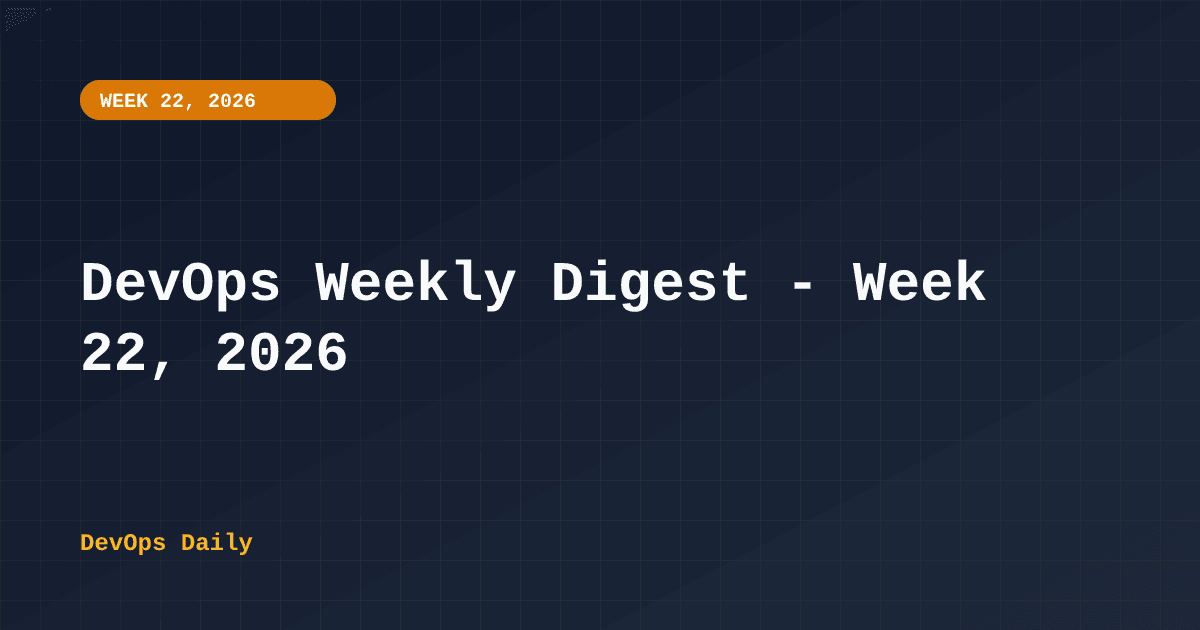
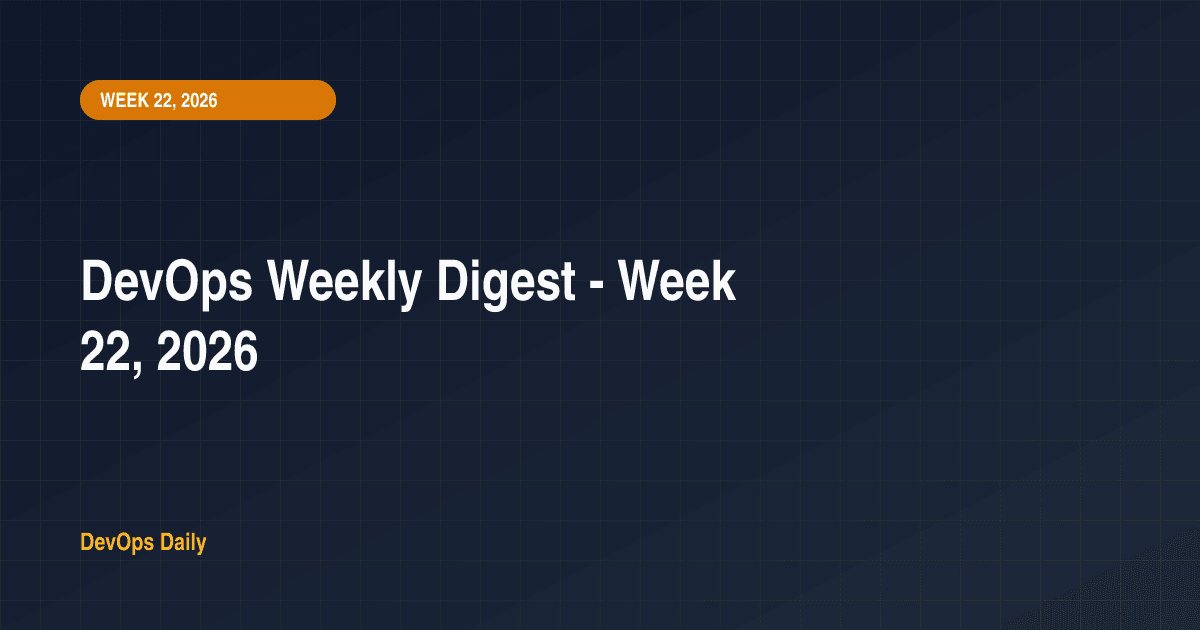
feat: add blog post - Zero-Downtime Database Migrations for PostgreSQL in Production (#1319)

Pull request: feat: add blog post - Zero-Downtime Database Migrations for PostgreSQL in Production
Blog Post on **Zero-Downtime Database Migrations for PostgreSQL in Production**.
Category: Database Operations
Tags: postgresql, database-migrations, zero-downtime

diff --git a/content/posts/zero-downtime-postgresql-migrations-production.md b/content/posts/zero-downtime-postgresql-migrations-production.md
@@ -1,0 +1,295 @@
+---
+title: 'Zero-Downtime Database Migrations for PostgreSQL in Production'
+excerpt: 'A single ALTER TABLE can take down a busy PostgreSQL database for minutes. This post shows why that happens and how to ship schema changes safely with lock timeouts, the expand-and-contract pattern, and copy-paste SQL recipes for indexes, columns, constraints, and type changes.'
+category:
+  name: 'DevOps'
+  slug: 'devops'
+date: '2026-06-01'
+publishedAt: '2026-06-01T09:00:00Z'
+updatedAt: '2026-06-01T09:00:00Z'
+readingTime: '13 min read'
+author:
+  name: 'DevOps Daily Team'
+  slug: 'devops-daily-team'
+featured: false
+tags:
+  - postgresql
+  - database-migrations
+  - zero-downtime
+  - devops
+  - sql
+---
+
+It is 2am. A deploy goes out that adds an index to the `orders` table. The migration looks harmless:
+
+```sql
+CREATE INDEX idx_orders_customer ON orders (customer_id);
+```
+
+Thirty seconds later the on-call phone goes off. The API is returning 500s. The connection pool is maxed out. Every request that touches `orders` is hanging. The database is up, CPU is fine, but nothing is moving.
+
+What happened is that `CREATE INDEX` without `CONCURRENTLY` takes a lock that blocks every write to the table for the entire build. On a 40 million row table that build takes minutes, and during those minutes every `INSERT`, `UPDATE`, and `DELETE` on `orders` waits in line. The web workers hold their database connections while they wait, the pool drains, and now even reads that have nothing to do with `orders` cannot get a connection.
+
+That is a self-inflicted outage from one line of SQL. This post is about how to never ship that line again.
+
+## TL;DR
+
+- A plain `ALTER TABLE` or `CREATE INDEX` takes a heavy lock. If it has to wait behind a slow query, it blocks every other query behind it too. One stuck statement stalls the whole table.
+- Always set `lock_timeout` (and `statement_timeout`) before schema changes so a migration fails fast instead of queueing and taking the table down.
+- Use `CREATE INDEX CONCURRENTLY` for indexes. It does not block writes.
+- Use the **expand-and-contract** pattern for anything that changes existing columns: add the new shape, backfill, switch the app, then drop the old shape in a later deploy.
+- Add constraints with `NOT VALID` first, then `VALIDATE CONSTRAINT` separately. The validation step does not block reads or writes.
+- Backfill large tables in small batches that each commit, never one giant `UPDATE`.
+
+## Prerequisites
+
+- PostgreSQL 12 or newer. Most of this works on 11, but a few shortcuts (like skipping a table scan when setting `NOT NULL`) need 12+.
+- A database you can connect to with `psql` and a role that can run DDL.
+- Some way to deploy application code separately from migrations. The expand-and-contract pattern needs at least two deploys.
+- A staging database with production-like row counts. Lock behavior that is instant on 1,000 rows is a 4-minute outage on 40 million.
+
+## Why a "simple" migration takes down production
+
+PostgreSQL uses table-level locks for schema changes. The two that bite people most:
+
+- `CREATE INDEX` (without `CONCURRENTLY`) takes a `SHARE` lock. Reads still work, but every write to the table blocks until the index finishes building.
+- Most forms of `ALTER TABLE` take an `ACCESS EXCLUSIVE` lock. That blocks everything, reads included, for as long as the statement runs.
+
+For something like adding a column, the `ACCESS EXCLUSIVE` lock is held only for a moment, because on PostgreSQL 11+ adding a column with a constant default is a metadata change. So why do people still get outages from a fast `ALTER TABLE`?
+
+The answer is the lock queue, and it is the part most people miss.
+
+When your `ALTER TABLE` asks for an `ACCESS EXCLUSIVE` lock and some long-running `SELECT` is already holding an `ACCESS SHARE` lock on the table, your `ALTER TABLE` has to wait. That is fine on its own. The problem is that while it waits, it sits at the front of the lock queue, and every new query that needs a conflicting lock now queues behind it. A plain `SELECT` needs `ACCESS SHARE`, which conflicts with the pending `ACCESS EXCLUSIVE`, so the `SELECT` waits too.
+
+So the chain is: one slow analytics query holds a read lock, your instant `ALTER TABLE` queues behind it, and then every normal query on that table queues behind your `ALTER TABLE`. The table is frozen until the slow query finishes, even though your schema change would have taken 5 milliseconds.
+
+You can watch it happen. Open a second session during a migration and run:
+
+```sql
+SELECT pid, state, wait_event_type, left(query, 60) AS query
+FROM pg_stat_activity
+WHERE wait_event_type = 'Lock'
+ORDER BY query_start;
+```
+
+```text
+  pid  |        state        | wait_event_type |                           query
+-------+---------------------+-----------------+------------------------------------------------------------
+ 18442 | active              | Lock            | ALTER TABLE orders ADD COLUMN region text
+ 18455 | active              | Lock            | SELECT * FROM orders WHERE id = $1
+ 18460 | active              | Lock            | SELECT * FROM orders WHERE id = $1
+ 18471 | active              | Lock            | UPDATE orders SET status = $1 WHERE id = $2
+```
+
+Three normal queries stuck behind one `ALTER TABLE` that is itself stuck behind something else. That is your outage.
+
+## Always set a lock timeout
+
+This is the single highest-value habit. Before any schema change, tell PostgreSQL to give up if it cannot get the lock quickly:
+
+```sql
+SET lock_timeout = '3s';
+SET statement_timeout = '0';  -- keep this off for long index builds
+
+ALTER TABLE orders ADD COLUMN region text;
+```
+
+Now if the lock is not available within 3 seconds, the migration fails instead of queueing:
+
+```text
+ERROR:  canceling statement due to lock timeout
+```
+
+A failed migration is annoying. A frozen production table is an incident. The failed migration is the outcome you want, because it means the table kept serving traffic the entire time. You retry the migration later, ideally when no long-running query is holding the table.
+
+Set this in your migration tool, not by hand. Most frameworks let you configure it. For raw SQL files, put the `SET lock_timeout` line at the top of every migration. Some teams set it in `postgresql.conf` for the migration role so it cannot be forgotten.
+
+One caveat: `lock_timeout` only covers the wait to acquire the lock. A `CREATE INDEX CONCURRENTLY` that runs for 10 minutes is not affected, because it is doing work, not waiting. That is fine. The danger is the waiting, not the working.
+
+## Build indexes concurrently
+
+Never build an index on a live table without `CONCURRENTLY`:
+
+```sql
+-- Wrong: blocks all writes for the whole build
+CREATE INDEX idx_orders_customer ON orders (customer_id);
+
+-- Right: writes keep working
+CREATE INDEX CONCURRENTLY idx_orders_customer ON orders (customer_id);
+```
+
+`CONCURRENTLY` scans the table twice and takes longer, but it does not block reads or writes. The tradeoffs you need to know:
+
+- It cannot run inside a transaction block. Many migration tools wrap every migration in a transaction by default. You have to turn that off for this migration (Rails has `disable_ddl_transaction!`, others have similar flags).
+- If it fails partway, it leaves an invalid index behind. This is the gotcha that surprises people.
+
+A common failure is building a unique index on data that turns out not to be unique:
+
+```text
+ERROR:  could not create unique index "idx_users_email"
+DETAIL:  Key (email)=([email redacted]) is duplicated.
+```
+
+The build failed, but PostgreSQL did not clean up after itself. You now have a leftover index marked invalid. Find it:
+
+```sql
+SELECT indexrelid::regclass AS index, indrelid::regclass AS table
+FROM pg_index
+WHERE NOT indisvalid;
+```
+
+```text
+        index        |  table
+---------------------+---------
+ idx_users_email     | users
+```
+
+Drop it (also concurrently, so the drop does not block writes either) and fix your data before retrying:
+
+```sql
+DROP INDEX CONCURRENTLY idx_users_email;
+```
+
+## The expand-and-contract pattern
+
+Indexes are the easy case. The hard case is changing a column that the application already reads and writes. Renaming a column, changing its type, making it `NOT NULL`, or splitting it into two columns all break the running application the instant the schema changes, because the old code still expects the old shape.
+
+The fix is to never change a column in place while code depends on it. You split the change across multiple deploys. This is the expand-and-contract pattern, sometimes called parallel change.
+
+```text
+  Deploy 1: EXPAND     Deploy 2: MIGRATE      Deploy 3: CONTRACT
+  add new shape        backfill + dual-write   drop old shape
+  (additive only)      switch reads to new     (additive removal)
+
+  old col ───────────────────────────────────────► dropped
+  new col      ◄──── added ───────► written ──────► sole source
+```
+
+The rule that makes it safe: every individual deploy is backward compatible with the code that is still running. At no point does new schema require new code or new code require new schema.
+
+Say you want to rename `users.name` to `users.full_name`. A plain `ALTER TABLE ... RENAME COLUMN` breaks every running instance of the old code that still selects `name`. Do this instead:
+
+**Deploy 1 (expand).** Add the new column. Nothing reads it yet.
+
+```sql
+SET lock_timeout = '3s';
+ALTER TABLE users ADD COLUMN full_name text;
+```
+
+Update the application to write to both columns on every insert and update. Reads still come from `name`.
+
+**Deploy 2 (migrate).** Backfill the existing rows (see the batching section below), then switch reads to `full_name`. Now both columns are kept in sync and the app reads the new one.
+
+**Deploy 3 (contract).** Once you are sure no running code reads `name`, drop it:
+
+```sql
+SET lock_timeout = '3s';
+ALTER TABLE users DROP COLUMN name;
+```
+
+Three deploys to rename a column feels like a lot. It is also the difference between a routine change and a customer-facing outage. The same pattern handles type changes (add `id_bigint`, backfill, swap), splitting columns, and moving data between tables.
+
+## Adding a NOT NULL column safely
+
+Adding a nullable column is cheap. Making a column `NOT NULL` is where people get caught, because a naive `SET NOT NULL` scans the whole table under an `ACCESS EXCLUSIVE` lock.
+
+Do it in steps. First add the column nullable and backfill it. Then add a `CHECK` constraint as `NOT VALID`, which is instant because it only applies to new rows:
+
+```sql
+ALTER TABLE users ADD COLUMN email_verified boolean;
+
+-- backfill here (see next section), then:
+
+SET lock_timeout = '3s';
+ALTER TABLE users
+  ADD CONSTRAINT users_email_verified_not_null
+  CHECK (email_verified IS NOT NULL) NOT VALID;
+```
+
+Now validate it in a separate statement. `VALIDATE CONSTRAINT` scans the table, but it takes only a `SHARE UPDATE EXCLUSIVE` lock, which allows reads and writes to continue:
+
+```sql
+ALTER TABLE users VALIDATE CONSTRAINT users_email_verified_not_null;
+```
+
+On PostgreSQL 12+ you can then promote it to a real `NOT NULL` and PostgreSQL skips the table scan, because the validated `CHECK` already proves no nulls exist:
+
+```sql
+ALTER TABLE users ALTER COLUMN email_verified SET NOT NULL;
+ALTER TABLE users DROP CONSTRAINT users_email_verified_not_null;
+```
+
+The same `NOT VALID` then `VALIDATE` trick works for foreign keys. Adding a foreign key normally locks both tables while it checks every existing row. Split it:
+
+```sql
+ALTER TABLE orders
+  ADD CONSTRAINT orders_customer_fk
+  FOREIGN KEY (customer_id) REFERENCES customers (id) NOT VALID;
+
+ALTER TABLE orders VALIDATE CONSTRAINT orders_customer_fk;
+```
+
+## Backfill in small, committing batches
+
+When you backfill a column on a large table, do not run one big `UPDATE`. A single `UPDATE users SET email_verified = false WHERE email_verified IS NULL` on 40 million rows holds locks for the whole run, builds a huge transaction, and bloats the table with dead rows that vacuum has to clean up later.
+
+Batch it. Each batch updates a few thousand rows and commits, so transactions stay short and other queries keep moving. A stored procedure with `COMMIT` inside the loop (PostgreSQL 11+) is the cleanest copy-paste version:
+
+```sql
+CREATE PROCEDURE backfill_email_verified()
+LANGUAGE plpgsql AS $$
+DECLARE
+  affected integer;
+BEGIN
+  LOOP
+    UPDATE users
+    SET email_verified = false
+    WHERE id IN (
+      SELECT id FROM users
+      WHERE email_verified IS NULL
+      LIMIT 5000
+    );
+    GET DIAGNOSTICS affected = ROW_COUNT;
+    EXIT WHEN affected = 0;  -- nothing left to update
+    COMMIT;                  -- commit each batch, release locks
+  END LOOP;
+END;
+$$;
+
+CALL backfill_email_verified();
+```
+
+If the backfill is putting too much load on the database, add a small `PERFORM pg_sleep(0.1)` before the `COMMIT` to slow it down. Five thousand rows per batch is a reasonable starting point. Tune it based on row size and how much replication lag you can tolerate, because every batch ships to your replicas too.
+
+When the backfill finishes, drop the procedure:
+
+```sql
+DROP PROCEDURE backfill_email_verified;
+```
+
+## A migration checklist before you ship
+
+Run through this before any production migration:
+
+- Does every statement set `lock_timeout`?
+- Is every index built with `CONCURRENTLY`, outside a transaction block?
+- Does any statement rewrite or scan a large table while holding `ACCESS EXCLUSIVE`? If so, split it with `NOT VALID` plus `VALIDATE`, or move to expand-and-contract.
+- Is the migration backward compatible with the code currently running? It has to be, because old and new code run side by side during a deploy.
+- Did you test it against a staging database with production-like row counts and a long-running query in another session to trigger the lock queue?
+
+## Next steps
+
+Pick your worst offender and fix it this week. Grep your migration history for `CREATE INDEX` without `CONCURRENTLY` and for `ADD COLUMN ... NOT NULL`. Those two patterns cause most of the outages.
+
+Then make the safe path the default so people do not have to remember it:
+
+- Set `lock_timeout` in `postgresql.conf` (or per-role) for the account your migrations run as, so a forgotten `SET` does not cost you an outage.
+- Add a linter to CI that fails the build on unsafe DDL. If you use Rails, the [strong_migrations](https://github.com/ankane/strong_migrations) gem flags these patterns before they merge. Django, Flyway, and Liquibase have similar checks or plugins. For raw SQL, [squawk](https://github.com/sbdchd/squawk) lints migration files directly.
+- Put a slow query holding a read lock into your staging test suite so a missing `lock_timeout` shows up before production does.
+
+The goal is not to memorize every lock level. It is to make the table stay online no matter what a migration does. Set the timeout, build concurrently, expand before you contract, and backfill in batches. Do those four things and the 2am index that took down `orders` becomes a migration that fails loudly in staging and ships quietly to production.
+
+Sources:
+- [PostgreSQL: Explicit Locking](https://www.postgresql.org/docs/current/explicit-locking.html)
+- [PostgreSQL: ALTER TABLE](https://www.postgresql.org/docs/current/sql-altertable.html)
+- [PostgreSQL: CREATE INDEX (CONCURRENTLY)](https://www.postgresql.org/docs/current/sql-createindex.html#SQL-CREATEINDEX-CONCURRENTLY)